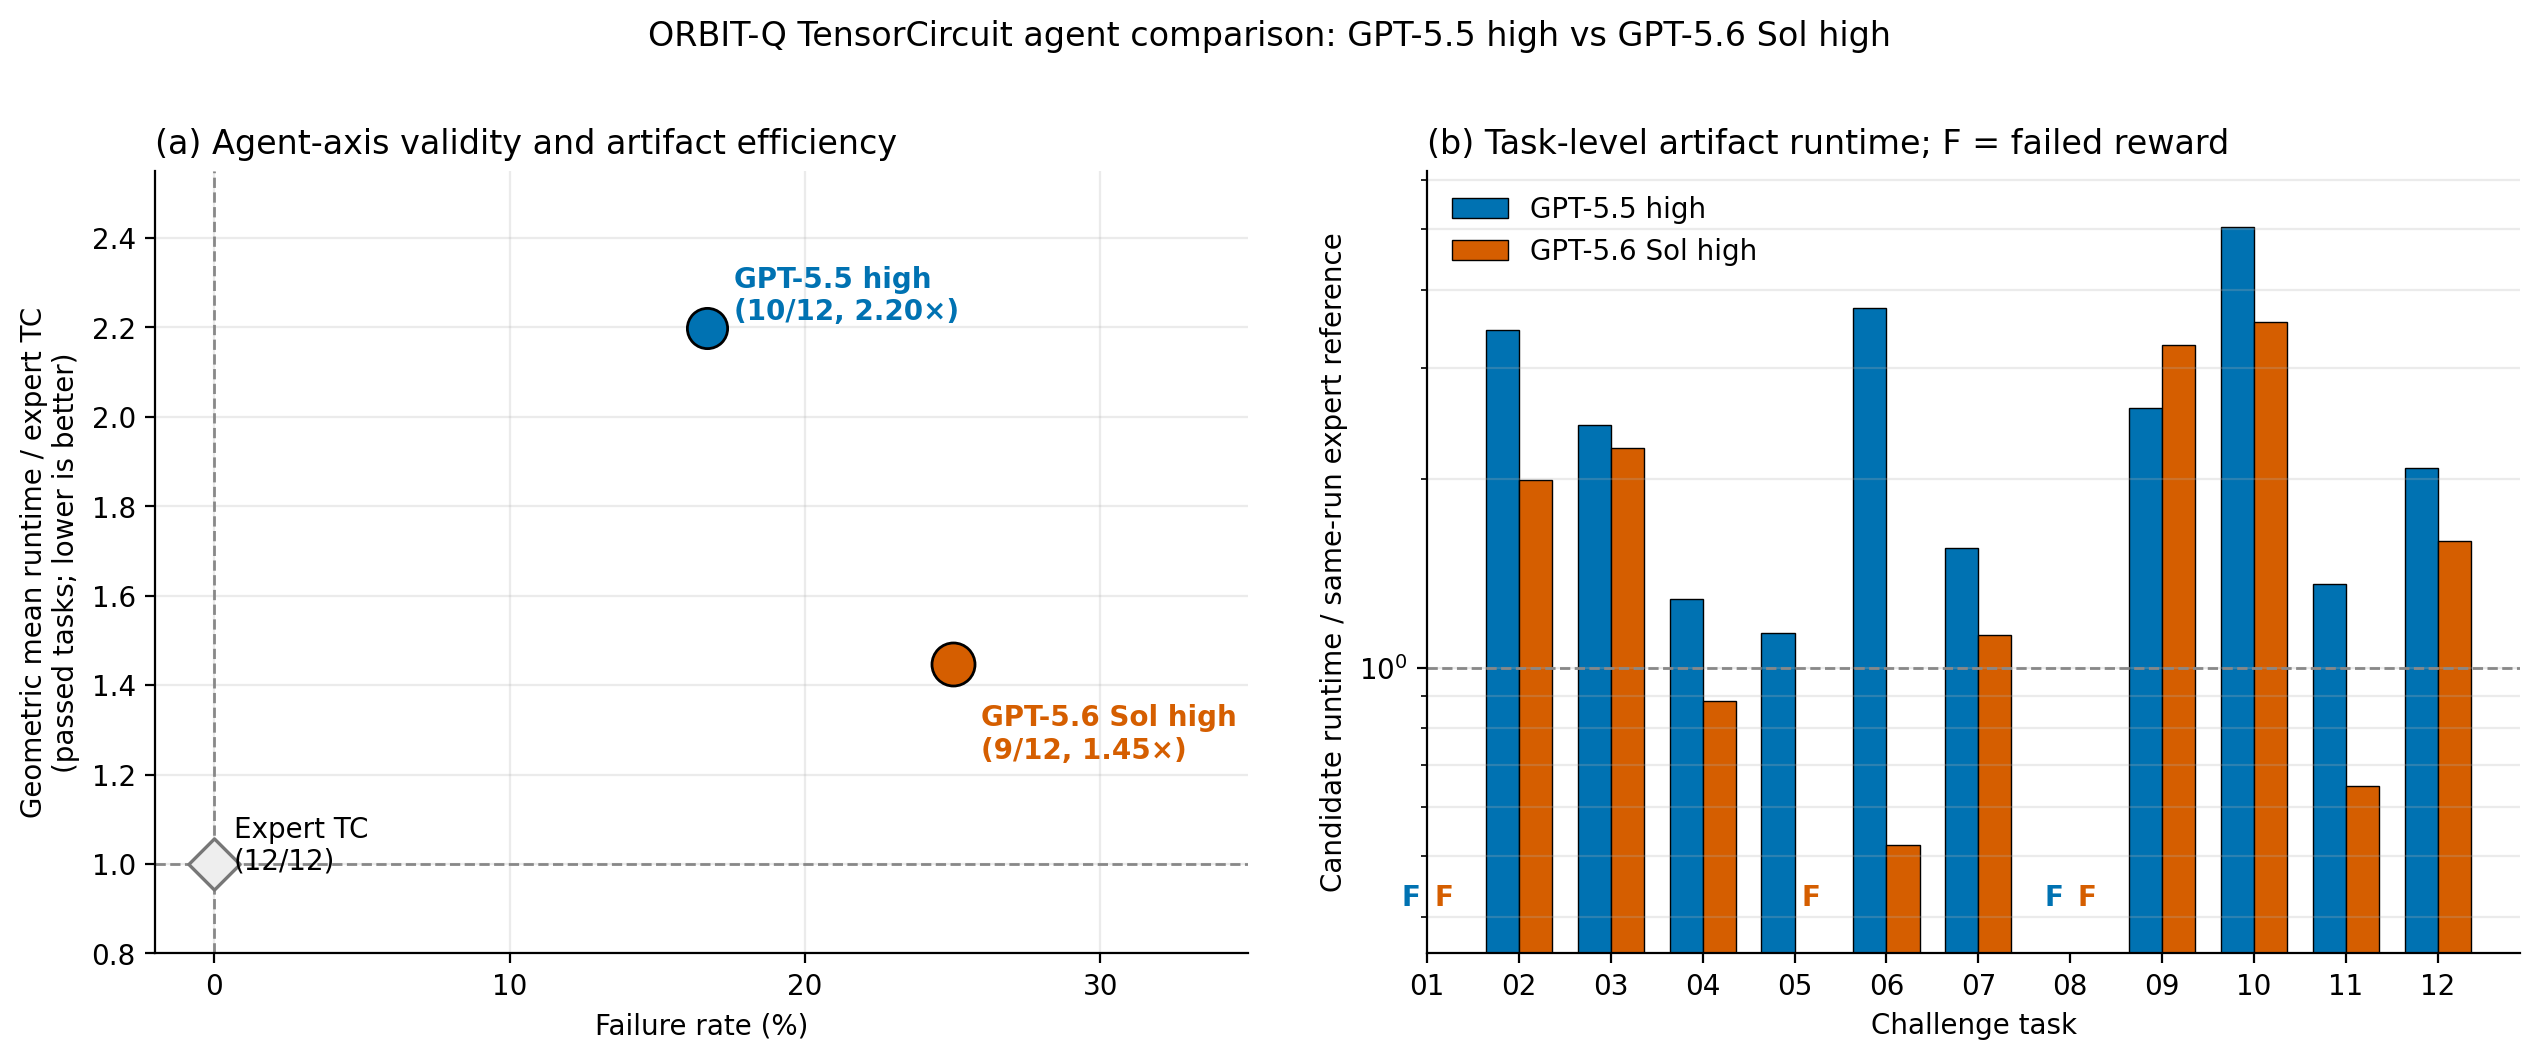
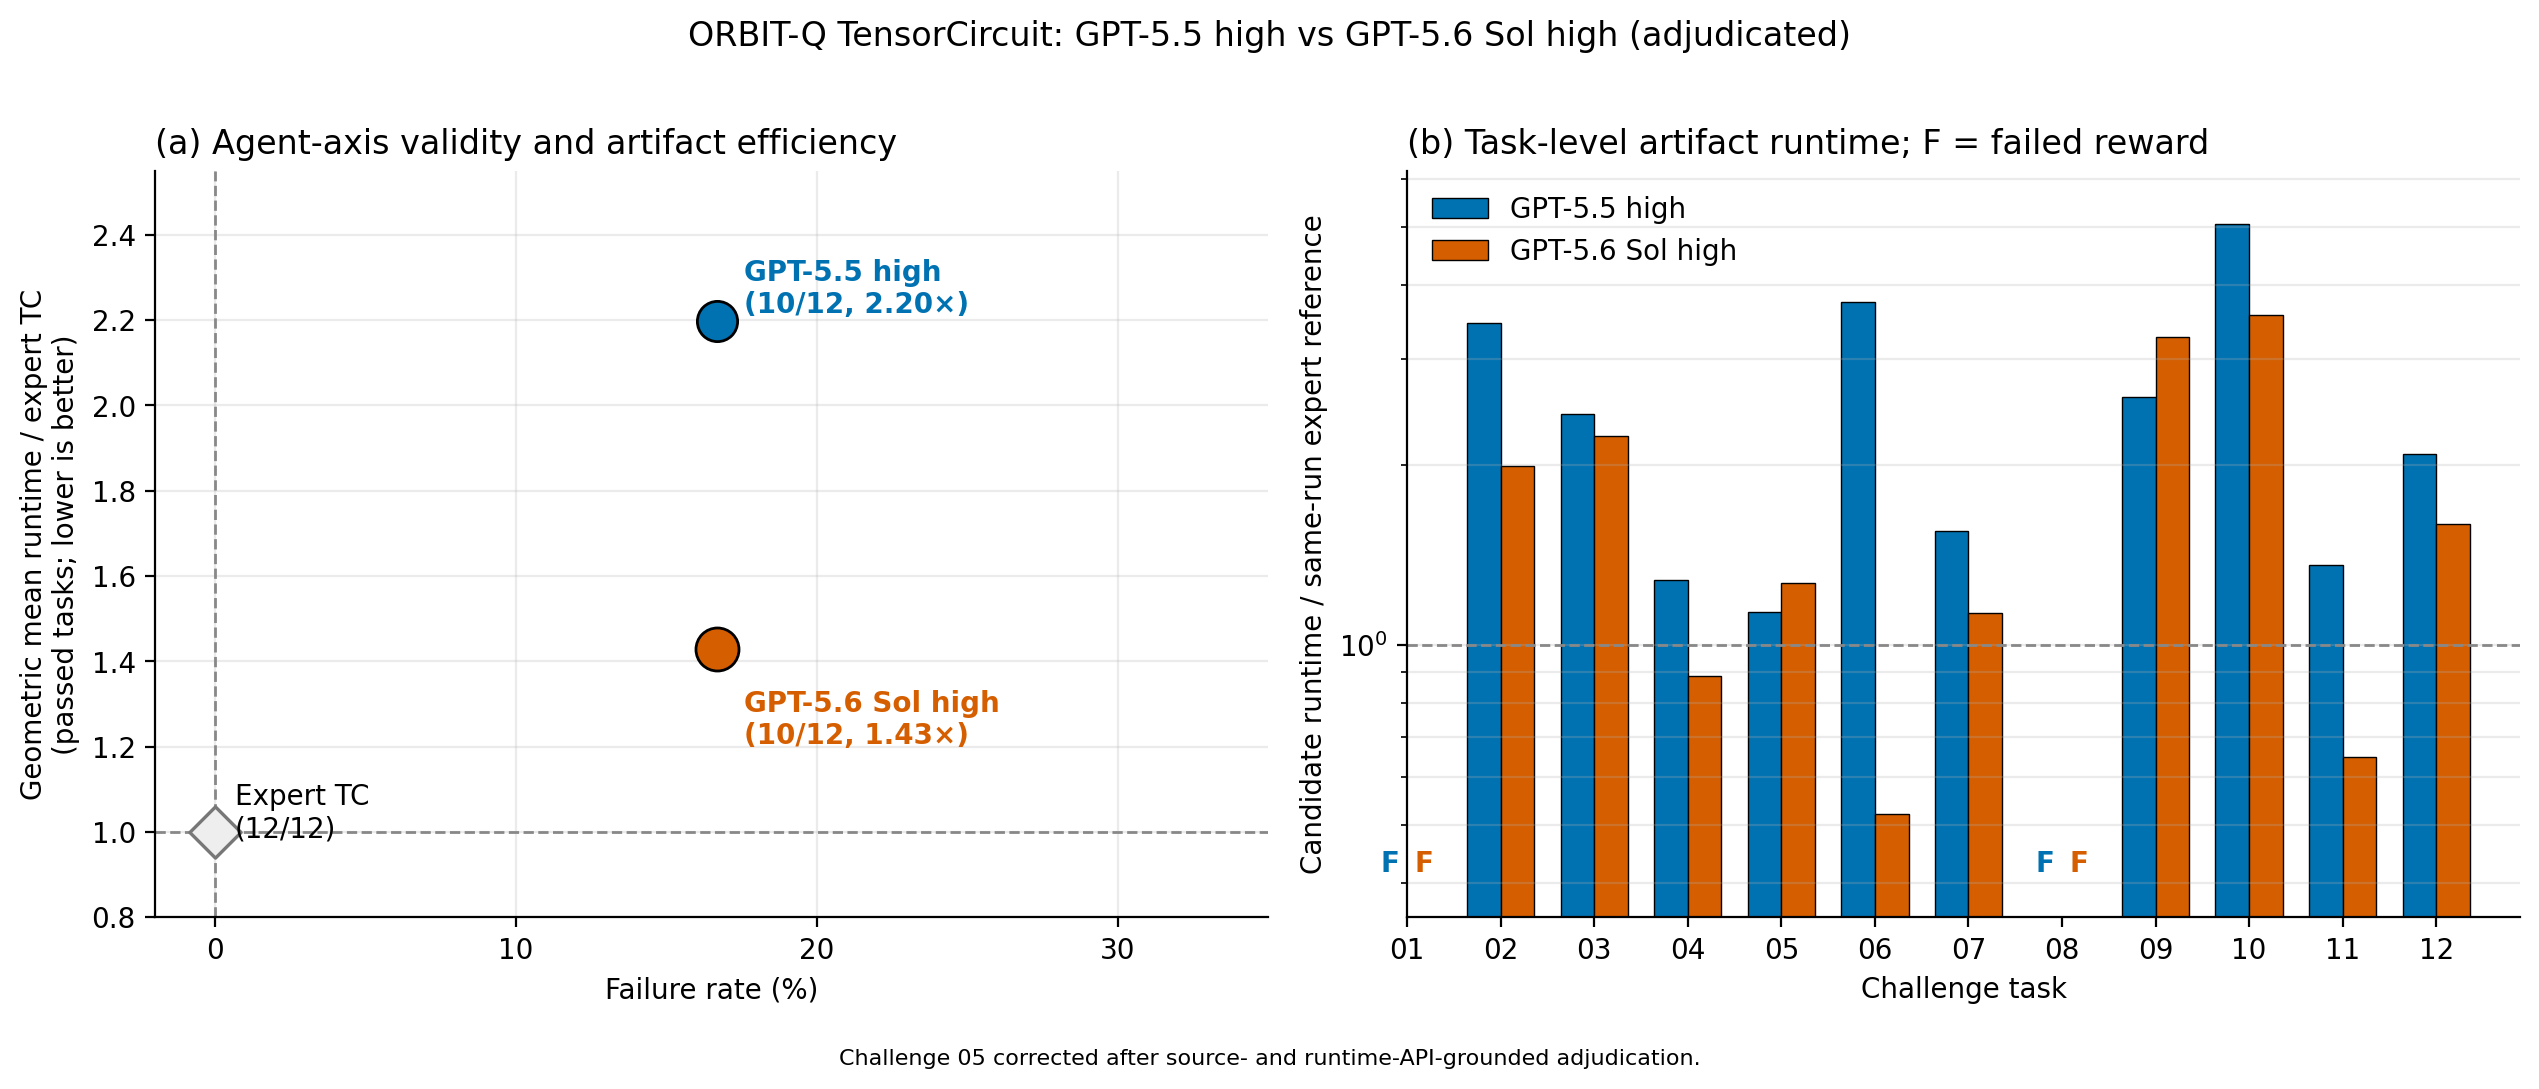
Correct challenge-05 audit false negative

diff --git a/results/gpt56sol-high/tools/make_comparison_figures.py b/results/gpt56sol-high/tools/make_comparison_figures.py
@@ -146,11 +146,18 @@ ax1.legend(frameon=False, loc="upper left")
 ax1.grid(alpha=0.25, axis="y", which="both")
 
 fig.suptitle(
-    "ORBIT-Q TensorCircuit agent comparison: GPT-5.5 high vs GPT-5.6 Sol high",
+    "ORBIT-Q TensorCircuit: GPT-5.5 high vs GPT-5.6 Sol high (adjudicated)",
     y=1.01,
     fontsize=12,
 )
-fig.tight_layout()
+fig.text(
+    0.5,
+    0.005,
+    "Challenge 05 corrected after source- and runtime-API-grounded adjudication.",
+    ha="center",
+    fontsize=8,
+)
+fig.tight_layout(rect=(0, 0.035, 1, 1))
 out = FIGS / "gpt55-vs-gpt56-comparison.png"
 fig.savefig(out, dpi=200, bbox_inches="tight")
 print(out)

diff --git a/results/gpt56sol-high/tools/make_resource_figure.py b/results/gpt56sol-high/tools/make_resource_figure.py
@@ -4,6 +4,9 @@ from __future__ import annotations
 import json
 from pathlib import Path
 
+import matplotlib
+
+matplotlib.use("Agg")
 import matplotlib.pyplot as plt
 import numpy as np
 from matplotlib.patches import Patch
@@ -187,7 +190,7 @@ def main() -> None:
         ax.spines["bottom"].set_linewidth(1.1)
 
     fig.suptitle(
-        "GPT-5.6 Sol high agent-side resource use",
+        "GPT-5.6 Sol high agent-side resource use (adjudicated)",
         fontsize=15,
         fontweight="bold",
         y=1.01,

diff --git a/results/gpt56sol-high/README.md b/results/gpt56sol-high/README.md
@@ -27,13 +27,13 @@ backend. This resource adaptation can affect wall-clock runtime comparisons.
 
 ## Results
 
-| Challenge | Reward | Functional | Static policy | LLM audit | Runtime (s) |
+| Challenge | Reward | Functional | Static policy | Final audit | Runtime (s) |
 |---|---:|---:|---:|---:|---:|
 | 01 | 0.0 | 1.0 | 1.0 | 0.0 | 107.51 |
 | 02 | 1.0 | 1.0 | 1.0 | 1.0 | 10.65 |
 | 03 | 1.0 | 1.0 | 1.0 | 1.0 | 9.84 |
 | 04 | 1.0 | 1.0 | 1.0 | 1.0 | 14.14 |
-| 05 | 0.0 | 1.0 | 1.0 | 0.0 | 124.92 |
+| 05 | 1.0 | 1.0 | 1.0 | 1.0 | 124.92 |
 | 06 | 1.0 | 1.0 | 1.0 | 1.0 | 23.39 |
 | 07 | 1.0 | 1.0 | 1.0 | 1.0 | 155.52 |
 | 08 | 0.0 | 1.0 | 1.0 | 0.0 | 55.48 |
@@ -41,10 +41,11 @@ backend. This resource adaptation can affect wall-clock runtime comparisons.
 | 10 | 1.0 | 1.0 | 1.0 | 1.0 | 68.68 |
 | 11 | 1.0 | 1.0 | 1.0 | 1.0 | 100.41 |
 | 12 | 1.0 | 1.0 | 1.0 | 1.0 | 12.85 |
-| **Total / mean** | **9 / 12** | **12 / 12** | **12 / 12** | **9 / 12** | **64.23 mean** |
+| **Total / mean** | **10 / 12** | **12 / 12** | **12 / 12** | **10 / 12** | **64.23 mean** |
 
 Measured solution runtime totals 770.70 seconds. Runtime is reported separately
-and does not reduce the pass reward.
+and does not reduce the pass reward. Challenge 05's final audit and reward
+include the documented post-run API adjudication described below.
 
 ## GPT-5.5 comparison
 
@@ -52,9 +53,10 @@ and does not reduce the pass reward.
 
 Using the paper's agent-axis definition, GPT-5.5 high passed 10/12 tasks with
 a 2.197x geometric-mean artifact slowdown on its passed tasks. GPT-5.6 Sol
-high passed 9/12 tasks with a 1.447x geometric-mean slowdown on its passed
-tasks. Thus this run is one task worse on validity, but its valid artifacts
-are about 34% closer to the expert runtime baseline by this aggregate metric.
+high passed 10/12 tasks with a 1.428x geometric-mean slowdown on its passed
+tasks. Thus the two runs have the same validity count, while the GPT-5.6 Sol
+high valid artifacts are about 35% closer to the expert runtime baseline by
+this aggregate metric.
 
 The GPT-5.6 expert references were executed only after all candidate files had
 been frozen and committed. They were run without reading their source, in the
@@ -71,14 +73,36 @@ run, which reduces but does not eliminate those confounders. Exact data and
 provenance are in `runtime-comparison-mac.json`; the figure is generated by
 `tools/make_comparison_figures.py`.
 
-## Audit failures
+## Challenge 05 audit adjudication
+
+The original GPT-5.6 Sol audit rejected challenge 05 because it claimed that
+TensorCircuit `exp1` implements `exp(-i * theta * U / 2)`. That API claim is
+incorrect for the pinned `tensorcircuit-nightly==1.8.0.dev20260726` image.
+`exp1` defaults to `half=False` and implements `exp(-i * theta * U)`; only
+the named rotation gates such as `rxx` and `rzz` opt into the half-angle
+convention. Therefore `theta=1j*a` and `theta=1j*b` implement exactly the
+required `exp(a*X)` and `exp(b*ZZ)` filters.
+
+A direct container check found Frobenius errors of `2.77e-08` and `5.88e-08`
+against `exp(a*X)` and `exp(a*ZZ)`, while the errors against the incorrectly
+claimed half-angle matrices were `0.145` and `0.205`. The candidate otherwise
+matches the ten-layer circuit, normalization, optimization, history, and return
+requirements. Its final audit score and reward are therefore adjudicated from
+0.0 to 1.0. Exact evidence is in
+`challenge-05/audit-adjudication.json`.
+
+The original `audit-details.json` and `job-result.json` are preserved unchanged
+as raw Harbor provenance. `reward.json` is the final machine-readable score and
+records both the original and adjudicated values. The other eleven audit
+decisions were source-reviewed; no other clear misclassification was found.
+Challenge 08 remains failed because its fixed Sobol design produces correlated
+quasi-samples rather than independent circuit shots.
+
+## Final audit failures
 
 - Challenge 01: the candidate applied an MPS bond-dimension cap after each
   two-qubit gate. The audit considered this unrequested truncation a change to
   the specified unitary circuit.
-- Challenge 05: TensorCircuit `exp1` uses
-  `exp(-i * theta * U / 2)`, but the candidate omitted the required factor of
-  two in the imaginary angles.
 - Challenge 08: the candidate drove conditional sampling with a fixed scrambled
   Sobol sequence. The audit rejected these correlated quasi-Monte Carlo rows as
   a substitute for independent circuit shots and as evaluator exploitation.
@@ -111,8 +135,8 @@ of agent solve time and 26.071 million total solving-side tokens, comprising
 1.709 million non-cache-read input tokens, 24.199 million cache-read input
 tokens, and 0.163 million output tokens.
 
-Across the nine reward-passing tasks, the aggregate cost was USD 2.84 per
-valid solution and agent solve time was 21.97 minutes per valid solution.
+Across the ten final reward-passing tasks, the aggregate cost was USD 2.55 per
+valid solution and agent solve time was 19.77 minutes per valid solution.
 Marker area in panel (c) is proportional to the total recorded solver cost.
 For comparison, the paper reports USD 1.80 and 12.52 minutes for GPT-5.5
 high, or USD 1.33 and 8.91 minutes for GPT-5.5* high with the TC performance
@@ -128,10 +152,15 @@ Each challenge directory contains:
 
 - `solution_N.py`: candidate produced by the solver;
 - `functional-stdout-official.txt`: official functional evaluator output;
-- `reward.json`: official verifier scores;
-- `audit-details.json`: static, functional, and Codex audit details;
-- `job-result.json`: Harbor aggregate result;
-- `stamp-info.json`: model, effort, trial, resource, token, and cost metadata.
+- `reward.json`: final machine-readable scores, including adjudication metadata
+  where applicable;
+- `audit-details.json`: original static, functional, and Codex audit details;
+- `job-result.json`: original Harbor aggregate result;
+- `stamp-info.json`: model, effort, trial, resource, token, cost, and
+  adjudication metadata.
+
+Challenge 05 additionally contains `audit-adjudication.json`, which records the
+false-negative correction and its reproducible TensorCircuit API evidence.
 
 Harbor's artifact sanitizer replaced the ordinary `true` identifier fragment
 in four places in the collected challenge-04 candidate. The archived
